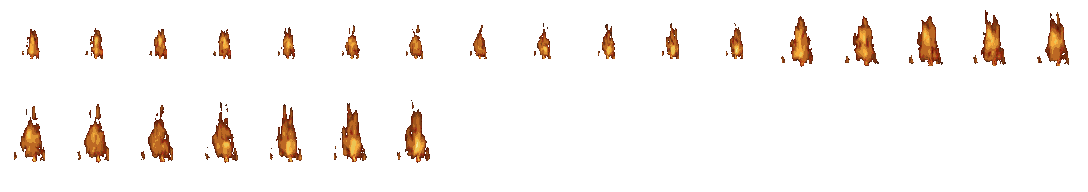
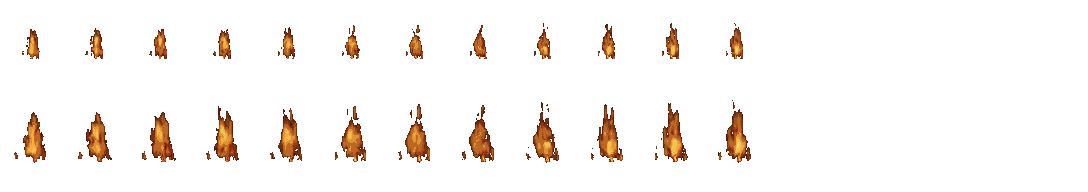
Basic fire working

diff --git a/Project/Motor2D/Building.cpp b/Project/Motor2D/Building.cpp
@@ -168,6 +168,10 @@ bool Building::Hit(int amount)
 			if (state != BS_DEAD)
 			{
 				UpdateBarTexture();
+				if (currHP < maxHP / 3)
+					fire.sprite.section.y = 96;
+				else if (currHP < maxHP * 2 / 3)
+					fire.sprite.section.y = 0;
 			}
 			if (currHP <= 0 && state != BS_DEAD)
 			{
@@ -320,18 +324,10 @@ void Building::LoadLibraryData()
 	HPBar_Empty->sprite.useCamera = HPBar_Filled->sprite.useCamera = HPBar_Shield->sprite.useCamera = true;
 
 	//Fire texture
-	fire.sprite.texture = App->tex->Load("graphics/neutral/building burnc.png");
-	fire.sprite.section.w = fire.rect_size_x = 64;
-	fire.sprite.section.h = fire.rect_size_y = 96;
+	fire = C_Animation(App->entityManager->fire1);
 	fire.sprite.position.x = pos.x + collider.w / 2 - 32;
 	fire.sprite.position.y = pos.y + collider.h / 2 - 48;
 	fire.sprite.y_ref = sprite.y_ref + 1;
-	fire.sprite.useCamera = true;
-	fire.animSpeed = 10.0f;
-	fire.type = A_RIGHT;
-	fire.firstRect = 0;
-	fire.lastRect = 10;
-
 }
 
 void Building::Draw()
@@ -350,9 +346,12 @@ void Building::Draw()
 		{
 			App->render->AddSprite(&shadow, SCENE);
 		}
-		if (fire.sprite.texture)
+		if (currHP < maxHP / 2)
 		{
-			App->render->AddSprite(&fire.sprite, SCENE);
+			if (fire.sprite.texture)
+			{
+				App->render->AddSprite(&fire.sprite, SCENE);
+			}
 		}
 	}
 	//Should be independent from scene

diff --git a/Project/Motor2D/M_EntityManager.cpp b/Project/Motor2D/M_EntityManager.cpp
@@ -1982,6 +1982,34 @@ bool M_EntityManager::LoadBuildingsSprites(char* path)
 		}
 	}
 
+	//Loading fire animations
+	fire1.sprite.texture = App->tex->Load("graphics/neutral/building burnc.png");
+	fire1.sprite.section.w = fire1.rect_size_x = 64;
+	fire1.sprite.section.h = fire1.rect_size_y = 96;
+	fire1.sprite.useCamera = true;
+	fire1.animSpeed = 10.0f;
+	fire1.type = A_RIGHT;
+	fire1.firstRect = 0;
+	fire1.lastRect = 10;
+
+	fire1.sprite.texture = App->tex->Load("graphics/neutral/building burnf.png");
+	fire1.sprite.section.w = fire1.rect_size_x = 64;
+	fire1.sprite.section.h = fire1.rect_size_y = 96;
+	fire1.sprite.useCamera = true;
+	fire1.animSpeed = 10.0f;
+	fire1.type = A_RIGHT;
+	fire1.firstRect = 0;
+	fire1.lastRect = 10;
+
+	fire1.sprite.texture = App->tex->Load("graphics/neutral/building burnv.png");
+	fire1.sprite.section.w = fire1.rect_size_x = 64;
+	fire1.sprite.section.h = fire1.rect_size_y = 96;
+	fire1.sprite.useCamera = true;
+	fire1.animSpeed = 10.0f;
+	fire1.type = A_RIGHT;
+	fire1.firstRect = 0;
+	fire1.lastRect = 10;
+
 	return ret;
 }
 

diff --git a/Project/Motor2D/M_EntityManager.h b/Project/Motor2D/M_EntityManager.h
@@ -2,8 +2,9 @@
 #define __ENTITYMANAGER_H__
 
 #include "j1Module.h"
-
 #include "Orders Factory.h"
+#include "C_RenderObjects.h"
+
 class Entity;
 class Unit;
 class Building;
@@ -375,6 +376,7 @@ public:
 	Resource*	hoveringResource;
 	Building*	hoveringBuilding;
 
+	//Mouse textures variables
 	std::vector< SDL_Texture*>	mouseTextures;
 	std::vector<int>			mouseTexturesNumber;
 	int							mouseMinRect = 0;
@@ -406,6 +408,7 @@ public:
 	Building*		 selectedBuilding = NULL;
 	Resource*		 selectedResource = NULL;
 	
+	//Textures --------------------------------
 	SDL_Texture* walkable_tile;
 	SDL_Texture* nonwalkable_tile;
 
@@ -418,6 +421,10 @@ public:
 
 	SDL_Texture* path_tex;
 
+	C_Animation fire1;
+	C_Animation fire2;
+	C_Animation fire3;
+	//----------------------------------------
 
 	//Collision variables
 	int currentPriority = 1;

diff --git a/Project/Motor2D/C_RenderObjects.h b/Project/Motor2D/C_RenderObjects.h
@@ -55,12 +55,28 @@ struct C_Animation
 	int rect_size_x;
 	int rect_size_y;
 
-	float currentRect;
+	float currentRect = 0;
 	
 	int firstRect;
 	int lastRect;
 
 	float animSpeed;
+
+	C_Animation(){};
+
+	C_Animation(const C_Animation& toCopy)
+	{
+		sprite = toCopy.sprite;
+		type = toCopy.type;
+
+		rect_size_x = toCopy.rect_size_x;
+		rect_size_y = toCopy.rect_size_y;
+
+		firstRect = toCopy.firstRect;
+		lastRect = toCopy.lastRect;
+
+		animSpeed = toCopy.animSpeed;
+	}
 
 	void Update(float dt)
 	{
